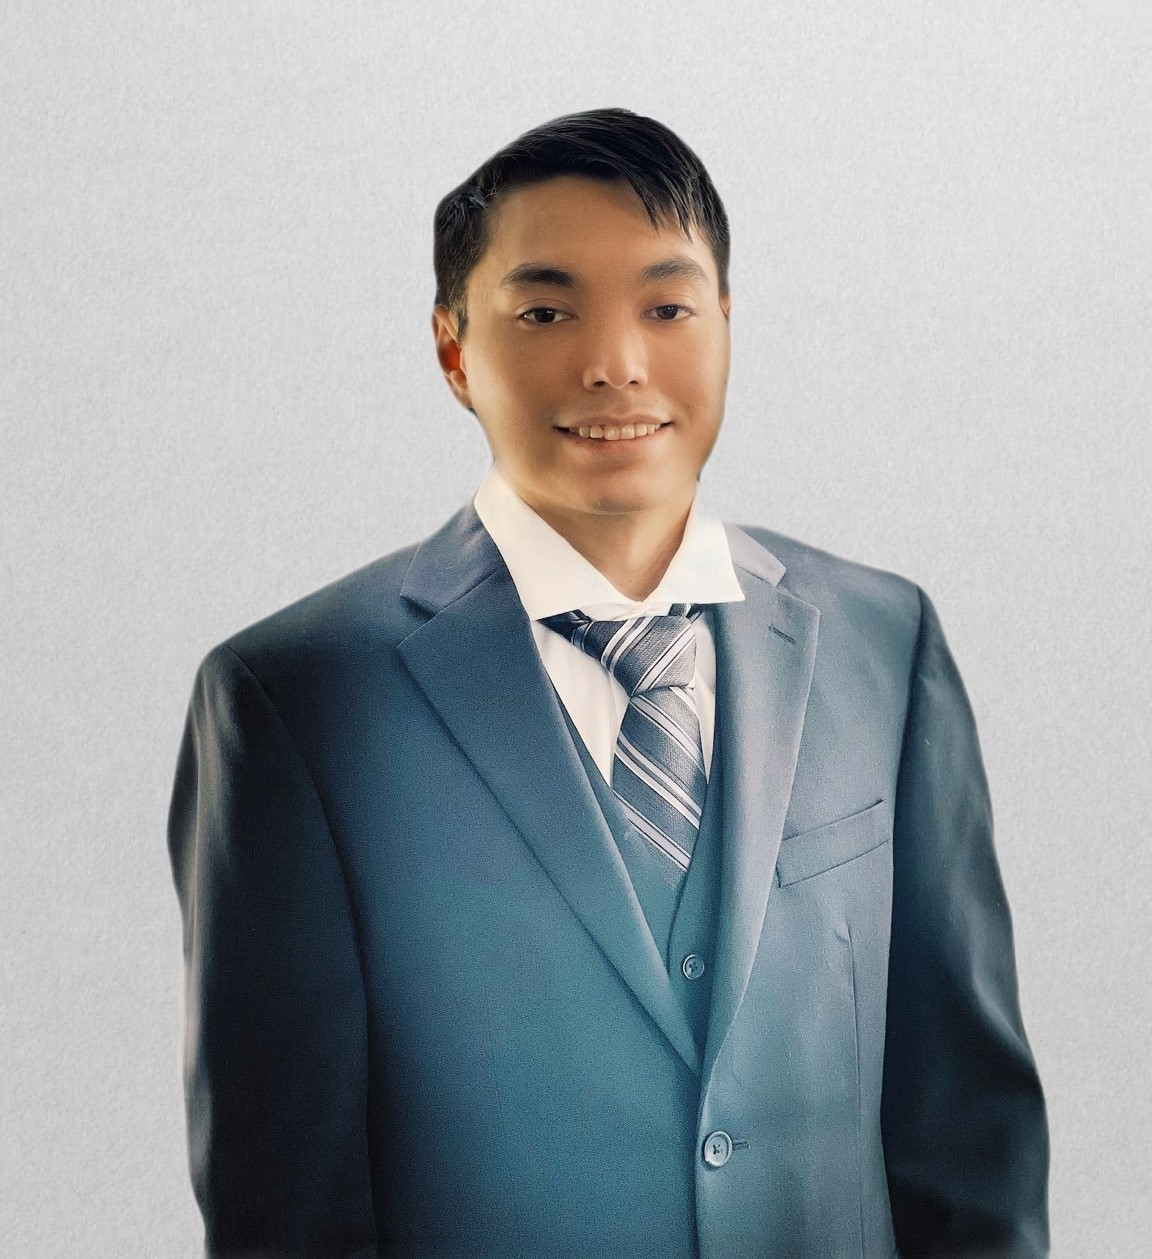
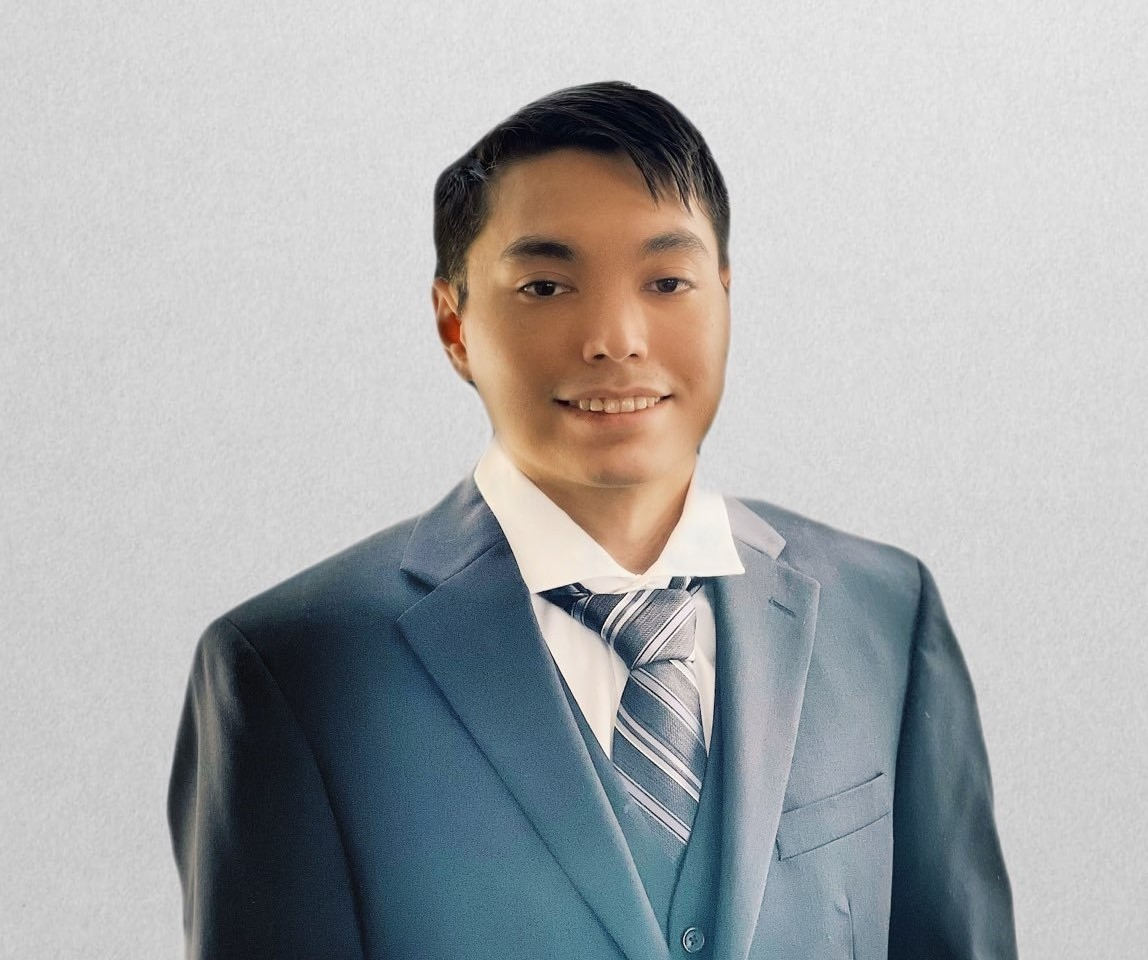
adjusted profile image

diff --git a/src/template.html b/src/template.html
@@ -24,11 +24,7 @@
     <!-- Improve your SEO by adding a small descrption of you -->
     <meta name="description" content="[Your name here] | Developer" />
 
-    <meta name="description" content="_" />
-    <meta name="title" property="og:title" content="_" />
-    <meta property="og:type" content="_" />
-    <meta name="image" property="og:image" content="https://media-exp3.licdn.com/dms/image/D5635AQEwz132LAwOIw/profile-framedphoto-shrink_200_200/0/1621816451534?e=1625090400&v=beta&t=1WiagT1PdCE6dd11QLoNKxGh7RDcJi8M1yQtVtqrYuc" />
-    <meta name="description" property="og:description" content="_" /><meta name="author" content="_" />
+
 
     <!-- Required librarys -->
     <link
@@ -73,7 +69,7 @@
               <img
                 class="img-fluid rounded shadow-lg"
                 height="auto"
-                width="300px"
+                width="500px"
                 src="./assets/profile.jpeg"
                 alt="Profile Image"
               />
